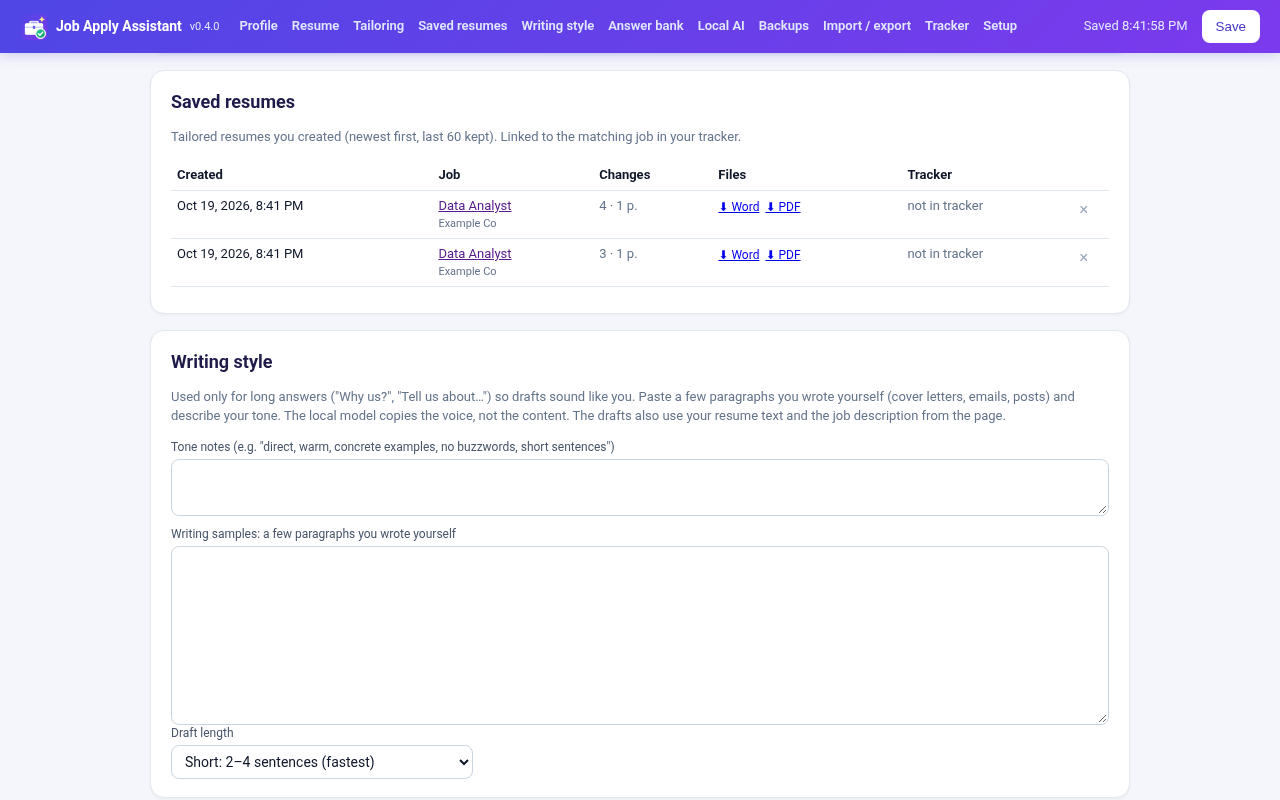
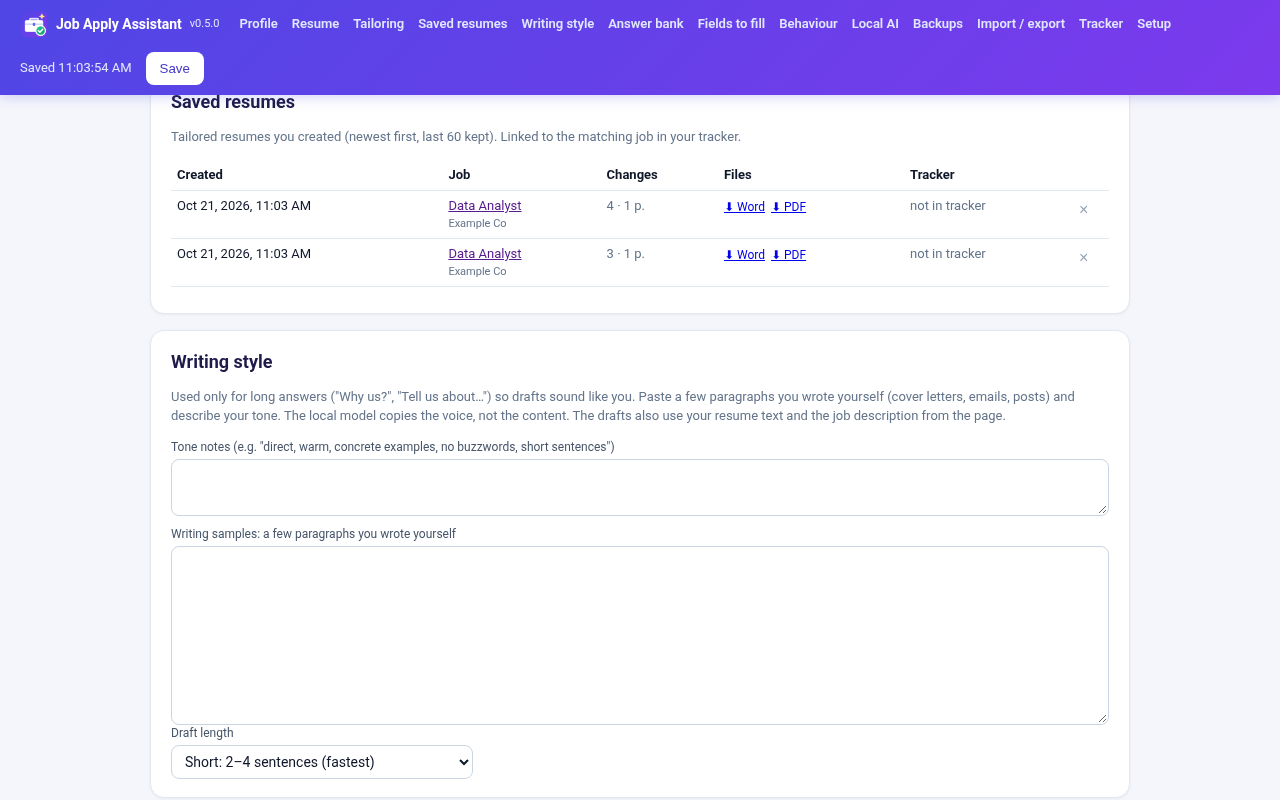
v0.5: update older suites for v0.5 UI (modal, tracker columns, version), no-redirect mocks so nothing reaches real sites; live fill-only + perf script with fake profile

diff --git a/dev-tests/e2e-live-v5.js b/dev-tests/e2e-live-v5.js
@@ -1,0 +1,154 @@
+// v0.5 live check on real Greenhouse / Lever / Ashby postings with the unpacked extension loaded.
+// FILL ONLY: the test never presses Submit, and every non-GET request the page makes is aborted
+// (except Ashby's read-only GraphQL that loads the form), so nothing can be submitted or uploaded.
+// Fake person only (Jordan Rivera). Mock Ollama on :11434 (fake answers).
+// Also measures the extension's cost on each page: CPU sampled from chrome-extension:// scripts
+// (CDP Profiler), plus Performance metrics with vs without the extension (median of RUNS loads).
+const { chromium } = require('playwright');
+const fs = require('fs');
+const path = require('path');
+const { createMock } = require('./mock-ollama-v5');
+const EXT = path.resolve(__dirname, '..');
+const SHOTS = path.join(__dirname, 'screenshots', 'v5');
+const RUNS = +(process.env.RUNS || 3);
+const SITES = [
+  ['greenhouse', 'https://job-boards.greenhouse.io/anthropic/jobs/5456619008'],
+  ['lever', 'https://jobs.lever.co/palantir/6ed76ce8-4156-4b60-b120-403538bd66cd/apply'],
+  ['ashby', 'https://jobs.ashbyhq.com/ramp/34413f8d-26bf-4bbc-8ade-eb309a0e2245/application']
+];
+const PROFILE = JSON.parse(fs.readFileSync(path.join(__dirname, 'fixtures', 'live-profile.json'), 'utf8'));
+let failures = 0;
+const check = (c, m) => { console.log((c ? '  PASS ' : '  FAIL ') + m); if (!c) failures++; return c; };
+const sleep = ms => new Promise(r => setTimeout(r, ms));
+const median = a => { const s = [...a].sort((x, y) => x - y); return s.length ? s[Math.floor(s.length / 2)] : 0; };
+const blocked = [];
+
+async function guard(ctx) {
+  await ctx.route('**/*', async route => {
+    const req = route.request(); const m = req.method();
+    if (m === 'GET' || m === 'HEAD' || m === 'OPTIONS') return route.continue();
+    const u = new URL(req.url());
+    if (/^(127\.0\.0\.1|localhost)$/.test(u.hostname)) return route.continue();
+    const body = req.postData() || '';
+    if (/ashbyhq\.com$/.test(u.hostname) && /non-user-graphql/.test(u.pathname) && !/submit|upload|apply|create|mutation/i.test(body)) return route.continue();
+    blocked.push(m + ' ' + u.hostname + u.pathname);
+    return route.abort();
+  });
+}
+
+async function extCpu(page, ms, fn) {
+  const cdp = await page.context().newCDPSession(page);
+  await cdp.send('Profiler.enable'); await cdp.send('Profiler.setSamplingInterval', { interval: 200 });
+  await cdp.send('Profiler.start');
+  const t0 = Date.now(); await fn(); const left = ms - (Date.now() - t0); if (left > 0) await sleep(left);
+  const { profile } = await cdp.send('Profiler.stop');
+  const self = new Map(); profile.nodes.forEach(n => self.set(n.id, n));
+  const dt = profile.timeDeltas; const counts = new Map();
+  profile.samples.forEach((id, i) => counts.set(id, (counts.get(id) || 0) + (dt[i] || 0)));
+  let ext = 0, all = 0;
+  for (const [id, us] of counts) { const n = self.get(id); const name = n.callFrame.functionName; if (name === '(idle)' || name === '(program)') continue; all += us; if (/^chrome-extension:\/\//.test(n.callFrame.url)) ext += us; }
+  await cdp.detach();
+  return { extMs: ext / 1000, pageJsMs: all / 1000 };
+}
+
+async function metrics(page) {
+  const cdp = await page.context().newCDPSession(page);
+  await cdp.send('Performance.enable');
+  const { metrics } = await cdp.send('Performance.getMetrics');
+  await cdp.detach();
+  const g = k => (metrics.find(x => x.name === k) || {}).value || 0;
+  const nav = await page.evaluate(() => { const n = performance.getEntriesByType('navigation')[0]; return n ? { dcl: n.domContentLoadedEventEnd, load: n.loadEventEnd } : {}; });
+  return { script: g('ScriptDuration') * 1000, task: g('TaskDuration') * 1000, heapMB: g('JSHeapUsedSize') / 1048576, dcl: nav.dcl, load: nav.load, nodes: g('Nodes') };
+}
+
+(async () => {
+  const mock = await createMock({ port: 11434, models: ['qwen2.5:3b'], allowExtensionOrigin: true, chatChunkMs: 2 });
+  const perf = {};
+  // ---- without the extension (baseline)
+  const plain = await chromium.launchPersistentContext('/tmp/jaa-live-plain-' + Date.now(), { channel: 'chromium', headless: true, viewport: { width: 1360, height: 900 } });
+  await guard(plain);
+  for (const [name, url] of SITES) {
+    perf[name] = { without: [], with: [], ext: [], extIdle: [], fill: null };
+    for (let i = 0; i < RUNS; i++) {
+      const p = await plain.newPage();
+      await p.goto(url, { waitUntil: 'load', timeout: 60000 }).catch(() => {}); await sleep(5000);
+      perf[name].without.push(await metrics(p)); await p.close();
+    }
+  }
+  await plain.close();
+
+  // ---- with the extension
+  const ctx = await chromium.launchPersistentContext('/tmp/jaa-live-ext-' + Date.now(), {
+    channel: 'chromium', headless: true, viewport: { width: 1360, height: 900 },
+    args: [`--disable-extensions-except=${EXT}`, `--load-extension=${EXT}`]
+  });
+  await guard(ctx);
+  let [sw] = ctx.serviceWorkers(); if (!sw) sw = await ctx.waitForEvent('serviceworker');
+  await sw.evaluate(async () => { for (let i = 0; i < 100; i++) { if ((await chrome.storage.local.get('dataVersion')).dataVersion >= 5) return; await new Promise(r => setTimeout(r, 50)); } });
+  for (const p of ctx.pages()) if (/welcome\.html/.test(p.url())) await p.close();
+  const pdf = fs.readFileSync(path.join(__dirname, 'fixtures', 'jordan-rivera-resume.pdf')).toString('base64');
+  await sw.evaluate(async s => {
+    const { settings } = await chrome.storage.local.get('settings');
+    await chrome.storage.local.set({ profile: s.profile, onboarding: { done: true }, uiPrefs: { privacySeen: true },
+      resume: { name: 'Jordan_Rivera_Resume.pdf', type: 'application/pdf', dataUrl: 'data:application/pdf;base64,' + s.pdf, size: 20000 },
+      settings: Object.assign({}, settings, { useLLM: true, model: 'qwen2.5:3b', ollamaUrl: 'http://127.0.0.1:11434', warmUp: false }) });
+  }, { profile: PROFILE, pdf });
+
+  for (const [name, url] of SITES) {
+    console.log(`\n${name}: ${url}`);
+    for (let i = 0; i < RUNS; i++) {
+      const p = await ctx.newPage();
+      // cost of loading + injecting + the first 5 s idle (match card, observers), then 5 s of steady state
+      const c = await extCpu(p, 9000, () => p.goto(url, { waitUntil: 'load', timeout: 60000 }).catch(() => {}));
+      perf[name].ext.push(c.extMs);
+      const idle = await extCpu(p, 5000, async () => {});
+      perf[name].extIdle.push(idle.extMs);
+      perf[name].with.push(await metrics(p));
+      if (i < RUNS - 1) { await p.close(); continue; }
+      // last run: Fill (never submit)
+      await p.addInitScript(() => {});
+      await p.evaluate(() => { window.__jaaSubmits = 0; document.addEventListener('submit', () => { window.__jaaSubmits++; }, true); document.addEventListener('click', e => { const b = e.target.closest && e.target.closest('button,input[type=submit]'); if (b && /submit|apply/i.test(b.innerText || b.value || '') && !b.closest('#jaa-host')) window.__jaaSubmitClicks = (window.__jaaSubmitClicks || 0) + 1; }, true); });
+      const btn = p.locator('#jaa-host button.btn');
+      const has = await btn.waitFor({ timeout: 20000 }).then(() => true).catch(() => false);
+      if (!check(has, 'Fill button shown')) { await p.screenshot({ path: SHOTS + `/live-${name}-nobutton.png` }); await p.close(); continue; }
+      const urlBefore = p.url();
+      const t0 = Date.now();
+      const fc = await extCpu(p, 0, async () => {
+        await btn.click();
+        await p.waitForFunction(() => { const h = document.getElementById('jaa-host'); const el = h && h.shadowRoot.querySelector('.body'); return el && /Required \d+ of \d+|need you|filled/i.test(el.innerText) && !(window.JAA && 0); }, null, { timeout: 120000 }).catch(() => {});
+        await p.waitForFunction(() => { const h = document.getElementById('jaa-host'); return h && !h.shadowRoot.querySelector('.prog'); }, null, { timeout: 120000 }).catch(() => {});
+      });
+      perf[name].fill = { ms: Date.now() - t0, extCpuMs: fc.extMs };
+      await sleep(1500);
+      const body = await p.evaluate(() => document.getElementById('jaa-host').shadowRoot.querySelector('.body').innerText);
+      const req = (body.match(/Required (\d+) of (\d+)/) || []).slice(1).join('/');
+      const filled = await p.evaluate(() => ({ ok: document.querySelectorAll('.jaa-ok').length, ai: document.querySelectorAll('.jaa-ai').length, todo: document.querySelectorAll('.jaa-todo').length }));
+      perf[name].fill.fields = filled; perf[name].fill.required = req;
+      check(filled.ok > 2, `filled from the fake profile: ${filled.ok} green, ${filled.ai} AI, ${filled.todo} need you; required ${req || '?'}`);
+      check(await p.evaluate(() => (window.__jaaSubmits || 0) + (window.__jaaSubmitClicks || 0)) === 0, 'no submit event and no Submit click');
+      check(p.url() === urlBefore, 'still on the same page (nothing sent)');
+      const shot = SHOTS + `/live-${name}.png`;
+      await p.screenshot({ path: shot }); console.log('  screenshot', shot);
+      await p.close();
+    }
+  }
+  check(true, 'non-GET requests aborted by the guard (never sent): ' + (blocked.length ? [...new Set(blocked)].slice(0, 6).join(', ') : 'none'));
+  // summary
+  const out = {};
+  for (const [name] of SITES) {
+    const P = perf[name]; const w = k => median(P.with.map(x => x[k] || 0)); const o = k => median(P.without.map(x => x[k] || 0));
+    out[name] = {
+      extCpuLoadMs: +median(P.ext).toFixed(1), extCpuIdle5sMs: +median(P.extIdle).toFixed(1),
+      scriptMs: { without: +o('script').toFixed(0), with: +w('script').toFixed(0) },
+      taskMs: { without: +o('task').toFixed(0), with: +w('task').toFixed(0) },
+      loadEventMs: { without: +o('load').toFixed(0), with: +w('load').toFixed(0) },
+      heapMB: { without: +o('heapMB').toFixed(1), with: +w('heapMB').toFixed(1) },
+      fill: P.fill
+    };
+  }
+  console.log('\nPERF ' + JSON.stringify(out, null, 1));
+  fs.writeFileSync('/tmp/jaa-live/perf-v5.json', JSON.stringify(out, null, 1));
+  await ctx.close(); await mock.close();
+  console.log(failures ? `\n${failures} FAILED` : '\nALL PASSED');
+  process.exit(failures ? 1 : 0);
+})().catch(e => { console.error(e); process.exit(2); });

diff --git a/dev-tests/e2e-submit.js b/dev-tests/e2e-submit.js
@@ -21,10 +21,10 @@ const check = (cond, msg) => { console.log((cond ? '  PASS ' : '  FAIL ') + msg)
     // 112: first submit is rejected (validation), second one succeeds
     if (req.method() === 'POST' && u.pathname === '/mockco/jobs/112') return counters[k] === 1 ? route.fulfill({ status: 422, contentType: 'application/json', body: '{"errors":["email"]}' }) : route.fulfill({ status: 200, body: '{}' });
     if (req.method() === 'GET' && u.pathname === '/mockco/jobs/113') return html(M('gh-classic.html'));
-    if (req.method() === 'POST' && u.pathname === '/mockco/jobs/113') return route.fulfill({ status: 302, headers: { location: '/mockco/jobs/113/confirmation' }, body: '' });
+    if (req.method() === 'POST' && u.pathname === '/mockco/jobs/113') return route.fulfill({ status: 200, contentType: 'text/html', body: "<script>location.replace('/mockco/jobs/113/confirmation')</script>" });
     if (u.pathname === '/mockco/jobs/113/confirmation') return html(M('gh-confirm.html'));
     if (req.method() === 'GET' && u.pathname === '/mockco/aaaa-1111/apply') return html(M('lever-apply.html'));
-    if (req.method() === 'POST' && u.pathname === '/mockco/aaaa-1111/apply') return route.fulfill({ status: 302, headers: { location: '/mockco/aaaa-1111/thanks' }, body: '' });
+    if (req.method() === 'POST' && u.pathname === '/mockco/aaaa-1111/apply') return route.fulfill({ status: 200, contentType: 'text/html', body: "<script>location.replace('/mockco/aaaa-1111/thanks')</script>" });
     if (u.pathname === '/mockco/aaaa-1111/thanks') return html(M('lever-thanks.html'));
     if (u.pathname === '/mockco/bbbb-2222/application') return html(M('ashby-app.html'));
     if (u.pathname === '/api/non-user-graphql') return route.fulfill({ status: 200, contentType: 'application/json', body: '{"data":{}}' });
@@ -53,6 +53,8 @@ const check = (cond, msg) => { console.log((cond ? '  PASS ' : '  FAIL ') + msg)
   };
   const badge = async page => sw.evaluate(async url => { const [t] = await chrome.tabs.query({ url }); return t ? chrome.action.getBadgeText({ tabId: t.id }) : null; }, page.url().split('?')[0] + '*');
   const toast = page => page.evaluate(() => { const h = document.getElementById('jaa-toast-host'); return h ? h.shadowRoot.querySelector('.t').innerText : ''; });
+  // v0.5: a confirmed submit opens the "Application tracked ✓" modal (notes + reminder) instead of the toast
+  const confirmedUi = page => page.waitForFunction(() => { const m = document.getElementById('jaa-tracked-host'); const t = document.getElementById('jaa-toast-host'); return (m && /Application tracked/.test(m.shadowRoot.querySelector('.m').innerText) && 'modal: Application tracked ✓') || (t && /confirmed/i.test(t.shadowRoot.querySelector('.t').innerText) && 'toast'); }, null, { timeout: 8000 }).then(h => h.jsonValue()).catch(() => '');
 
   console.log('\nA) Greenhouse SPA: Fill, then Alex submits immediately -> confirmation text');
   const a = await ctx.newPage();
@@ -67,7 +69,7 @@ const check = (cond, msg) => { console.log((cond ? '  PASS ' : '  FAIL ') + msg)
   check(await a.evaluate(() => window.__submits === undefined ? 'page replaced' : window.__submits) !== 0, 'Alex\'s submit was not blocked by the autofill guard');
   check(r.status === 'Applied' && r.submittedAt && r.confirmedAt, `status=${r.status} submittedAt=${r.submittedAt} confirmedAt=${r.confirmedAt}`);
   check(r.firstFilled === '2026-10-18T15:00:00.000Z', 'old v0.1 row migrated in place (firstFilled kept, key added): ' + r.key);
-  check(/confirmed/i.test(await toast(a)), 'toast: ' + JSON.stringify(await toast(a)));
+  { const ui = await confirmedUi(a); check(!!ui, 'confirmation shown: ' + ui); }
   check(await badge(a) === '✓', 'toolbar badge ✓ (got ' + JSON.stringify(await badge(a)) + ')');
 
   console.log('\nB) Greenhouse SPA: server validation error -> Error - not sent, then fixed resubmit -> Applied');
@@ -95,7 +97,7 @@ const check = (cond, msg) => { console.log((cond ? '  PASS ' : '  FAIL ') + msg)
   r = await waitStatus('lever:mockco:aaaa-1111', 'Applied');
   check(r && r.status === 'Applied' && r.submittedAt && r.confirmedAt, `status=${r && r.status} title="${r && r.title}" company="${r && r.company}"`);
   check(r && r.title === 'Lever Role', 'title kept from the apply page, not the thanks page');
-  check(/confirmed/i.test(await toast(c)), 'toast on /thanks: ' + JSON.stringify(await toast(c)));
+  { const ui = await confirmedUi(c); check(!!ui, 'confirmation shown on /thanks: ' + ui); }
 
   console.log('\nD) Ashby: Submit with required fields empty (browser blocks) -> Error; then real submit -> success text');
   const d = await ctx.newPage();
@@ -128,7 +130,7 @@ const check = (cond, msg) => { console.log((cond ? '  PASS ' : '  FAIL ') + msg)
   await o.goto(`chrome-extension://${extId}/options/options.html#tracker`);
   await o.waitForTimeout(500);
   const heads = await o.locator('table.apps th').allInnerTexts();
-  check(heads.includes('Submitted') && heads.includes('Confirmed'), 'options columns: ' + heads.join(' | '));
+  check(heads.includes('Stage') && heads.includes('Submission'), 'options columns: ' + heads.filter(Boolean).slice(-4).join(' | '));
   const [dl] = await Promise.all([o.waitForEvent('download'), o.click('#csv')]);
   await dl.saveAs('/workspace/jaa-tests/tracker-v2.csv');
   const csv = fs.readFileSync('/workspace/jaa-tests/tracker-v2.csv', 'utf8');

diff --git a/dev-tests/e2e-v3.js b/dev-tests/e2e-v3.js
@@ -206,7 +206,7 @@ const { check, sleep, chatText, waitChat, lastCard, SHOTS } = L;
   await pop.goto(`chrome-extension://${extId}/popup/popup.html`);
   await pop.waitForFunction(() => /ready|Local AI:/.test(document.getElementById('ollama').textContent), null, { timeout: 10000 });
   const ptxt = await pop.innerText('body');
-  check(/Job Apply Assistant/.test(ptxt) && /v0\.4\.0/.test(ptxt) && /Greenhouse/.test(ptxt) && /Local AI ready/.test(ptxt), 'popup: name, version, site, local AI status');
+  check(/Job Apply Assistant/.test(ptxt) && new RegExp("v" + require("../manifest.json").version.replace(/\./g, "\\.")).test(ptxt) && /Greenhouse/.test(ptxt) && /Local AI ready/.test(ptxt), 'popup: name, version, site, local AI status');
   check(await pop.locator('#gear').count() === 1, 'popup has the gear (settings) button');
   await pop.screenshot({ path: SHOTS + '/6-popup.png' });
   await pop.close();
